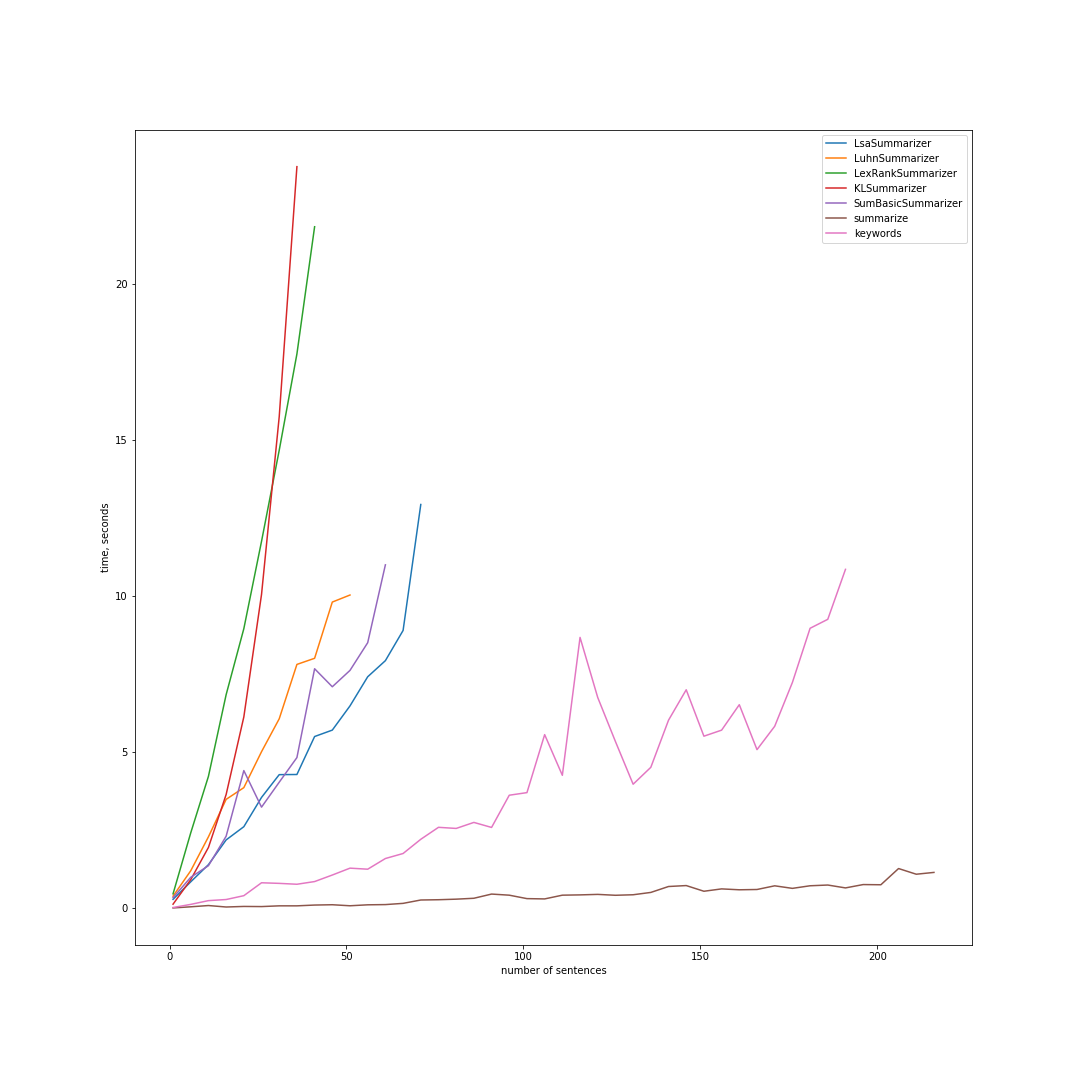
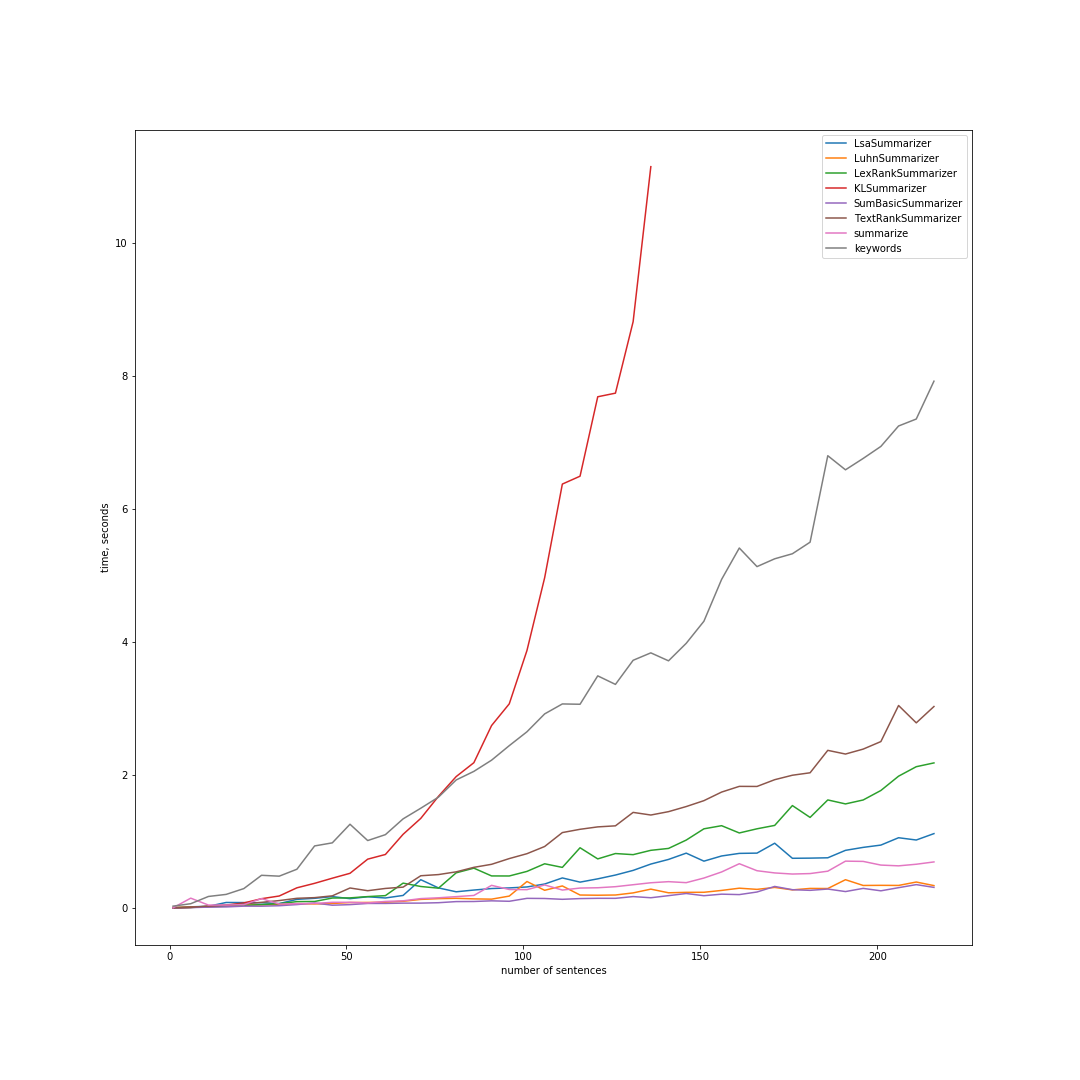
add sumy summrzer

diff --git a/plugin/background.js b/plugin/background.js
@@ -1,5 +1,5 @@
 const highlight = `
-    var server_addr = 'http://127.0.0.1:5000/gensim_sentences';
+    var server_addr = 'http://127.0.0.1:5000/sumy';
     // var server_addr = "https://gx5gopdt8h.execute-api.eu-west-1.amazonaws.com/default/highlights_word_embeddings";
     var rus_or_dig = /[а-яё0-9]/i;
     var ignored_tags = new Set(["SCRIPT", "STYLE"]);

diff --git a/server/sumy_smr.py b/server/sumy_smr.py
@@ -1,0 +1,59 @@
+from math import ceil
+
+from sumy.summarizers.lsa import LsaSummarizer
+from sumy.summarizers.lex_rank import LexRankSummarizer
+from sumy.summarizers.kl import KLSummarizer
+from sumy.summarizers.luhn import LuhnSummarizer
+from sumy.summarizers.sum_basic import SumBasicSummarizer
+from sumy.summarizers.edmundson import EdmundsonSummarizer
+from sumy.summarizers.text_rank import TextRankSummarizer
+
+from nltk.stem.snowball import SnowballStemmer
+from nltk.tokenize import word_tokenize, sent_tokenize
+
+
+class Imposter():
+    def __init__(self, text):
+        self.text = text
+        self._words = None
+        self._sent = None
+
+    @property
+    def words(self):
+        if self._words is None:
+            self._words = word_tokenize(self.text)
+        return self._words
+
+    @property
+    def sentences(self):
+        if self._sent is None:
+            self._sent = [Imposter(sent) for sent in sent_tokenize(self.text)]
+        return self._sent
+
+    def __repr__(self):
+        return repr(self.text)
+
+
+METHODS = {
+    'lsa': LsaSummarizer,
+    'lexrank': LexRankSummarizer,
+    'kl': KLSummarizer,
+    'luhn': LuhnSummarizer,
+    'sumbasic': SumBasicSummarizer,
+    'textrank': TextRankSummarizer,
+}
+
+
+def sum_sents(text, method, ratio=0.3, stemming=False):
+    text_object = Imposter(text)
+    if stemming:
+        stemmer = SnowballStemmer('russian').stem
+        summarizer = METHODS[method](stemmer)
+    else:
+        summarizer = METHODS[method]()
+    sentences = [
+        sent.text
+        for sent in summarizer(text_object,
+                               ceil(len(text_object.sentences) * ratio))]
+    return sentences
+

diff --git a/server/server.py b/server/server.py
@@ -13,6 +13,7 @@ from flask import Flask, request
 from gensim.summarization import keywords, summarize
 
 from entity_finder import find_entities
+from sumy_smr import sum_sents
 
 
 THR = 0.25
@@ -214,3 +215,41 @@ def gensim_sentences():
 
     grouped_spans = joined_spans_to_grouped_spans(spans, texts, dlm, joined)
     return json.dumps(grouped_spans)
+
+
+METHODS = {
+    'lsa',
+    'lexrank',
+    'kl', # долго, остальные ок
+    'luhn',
+    'sumbasic',
+    'textrank',
+}
+
+
+
+@app.route('/sumy', methods=['POST'])
+def sumy_summarize():
+    inp = json.loads(request.data)
+
+    texts = [x['text'] for x in inp]
+    dlm = ''
+    joined = dlm.join(texts)
+
+    sentences = sum_sents(joined, ratio=0.2, method='luhn')
+
+    cur_start = 0
+    spans = []
+    for sent in sentences:
+        beg = joined.find(sent, cur_start)
+        if beg == -1:
+            print('====Not Found!!!====')
+            print(repr(sent))
+            print(repr(joined[cur_start : cur_start + 100]))
+            continue
+        cur_start = end = beg + len(sent)
+        spans.append((beg, end))
+
+    grouped_spans = joined_spans_to_grouped_spans(spans, texts, dlm, joined)
+    return json.dumps(grouped_spans)
+
